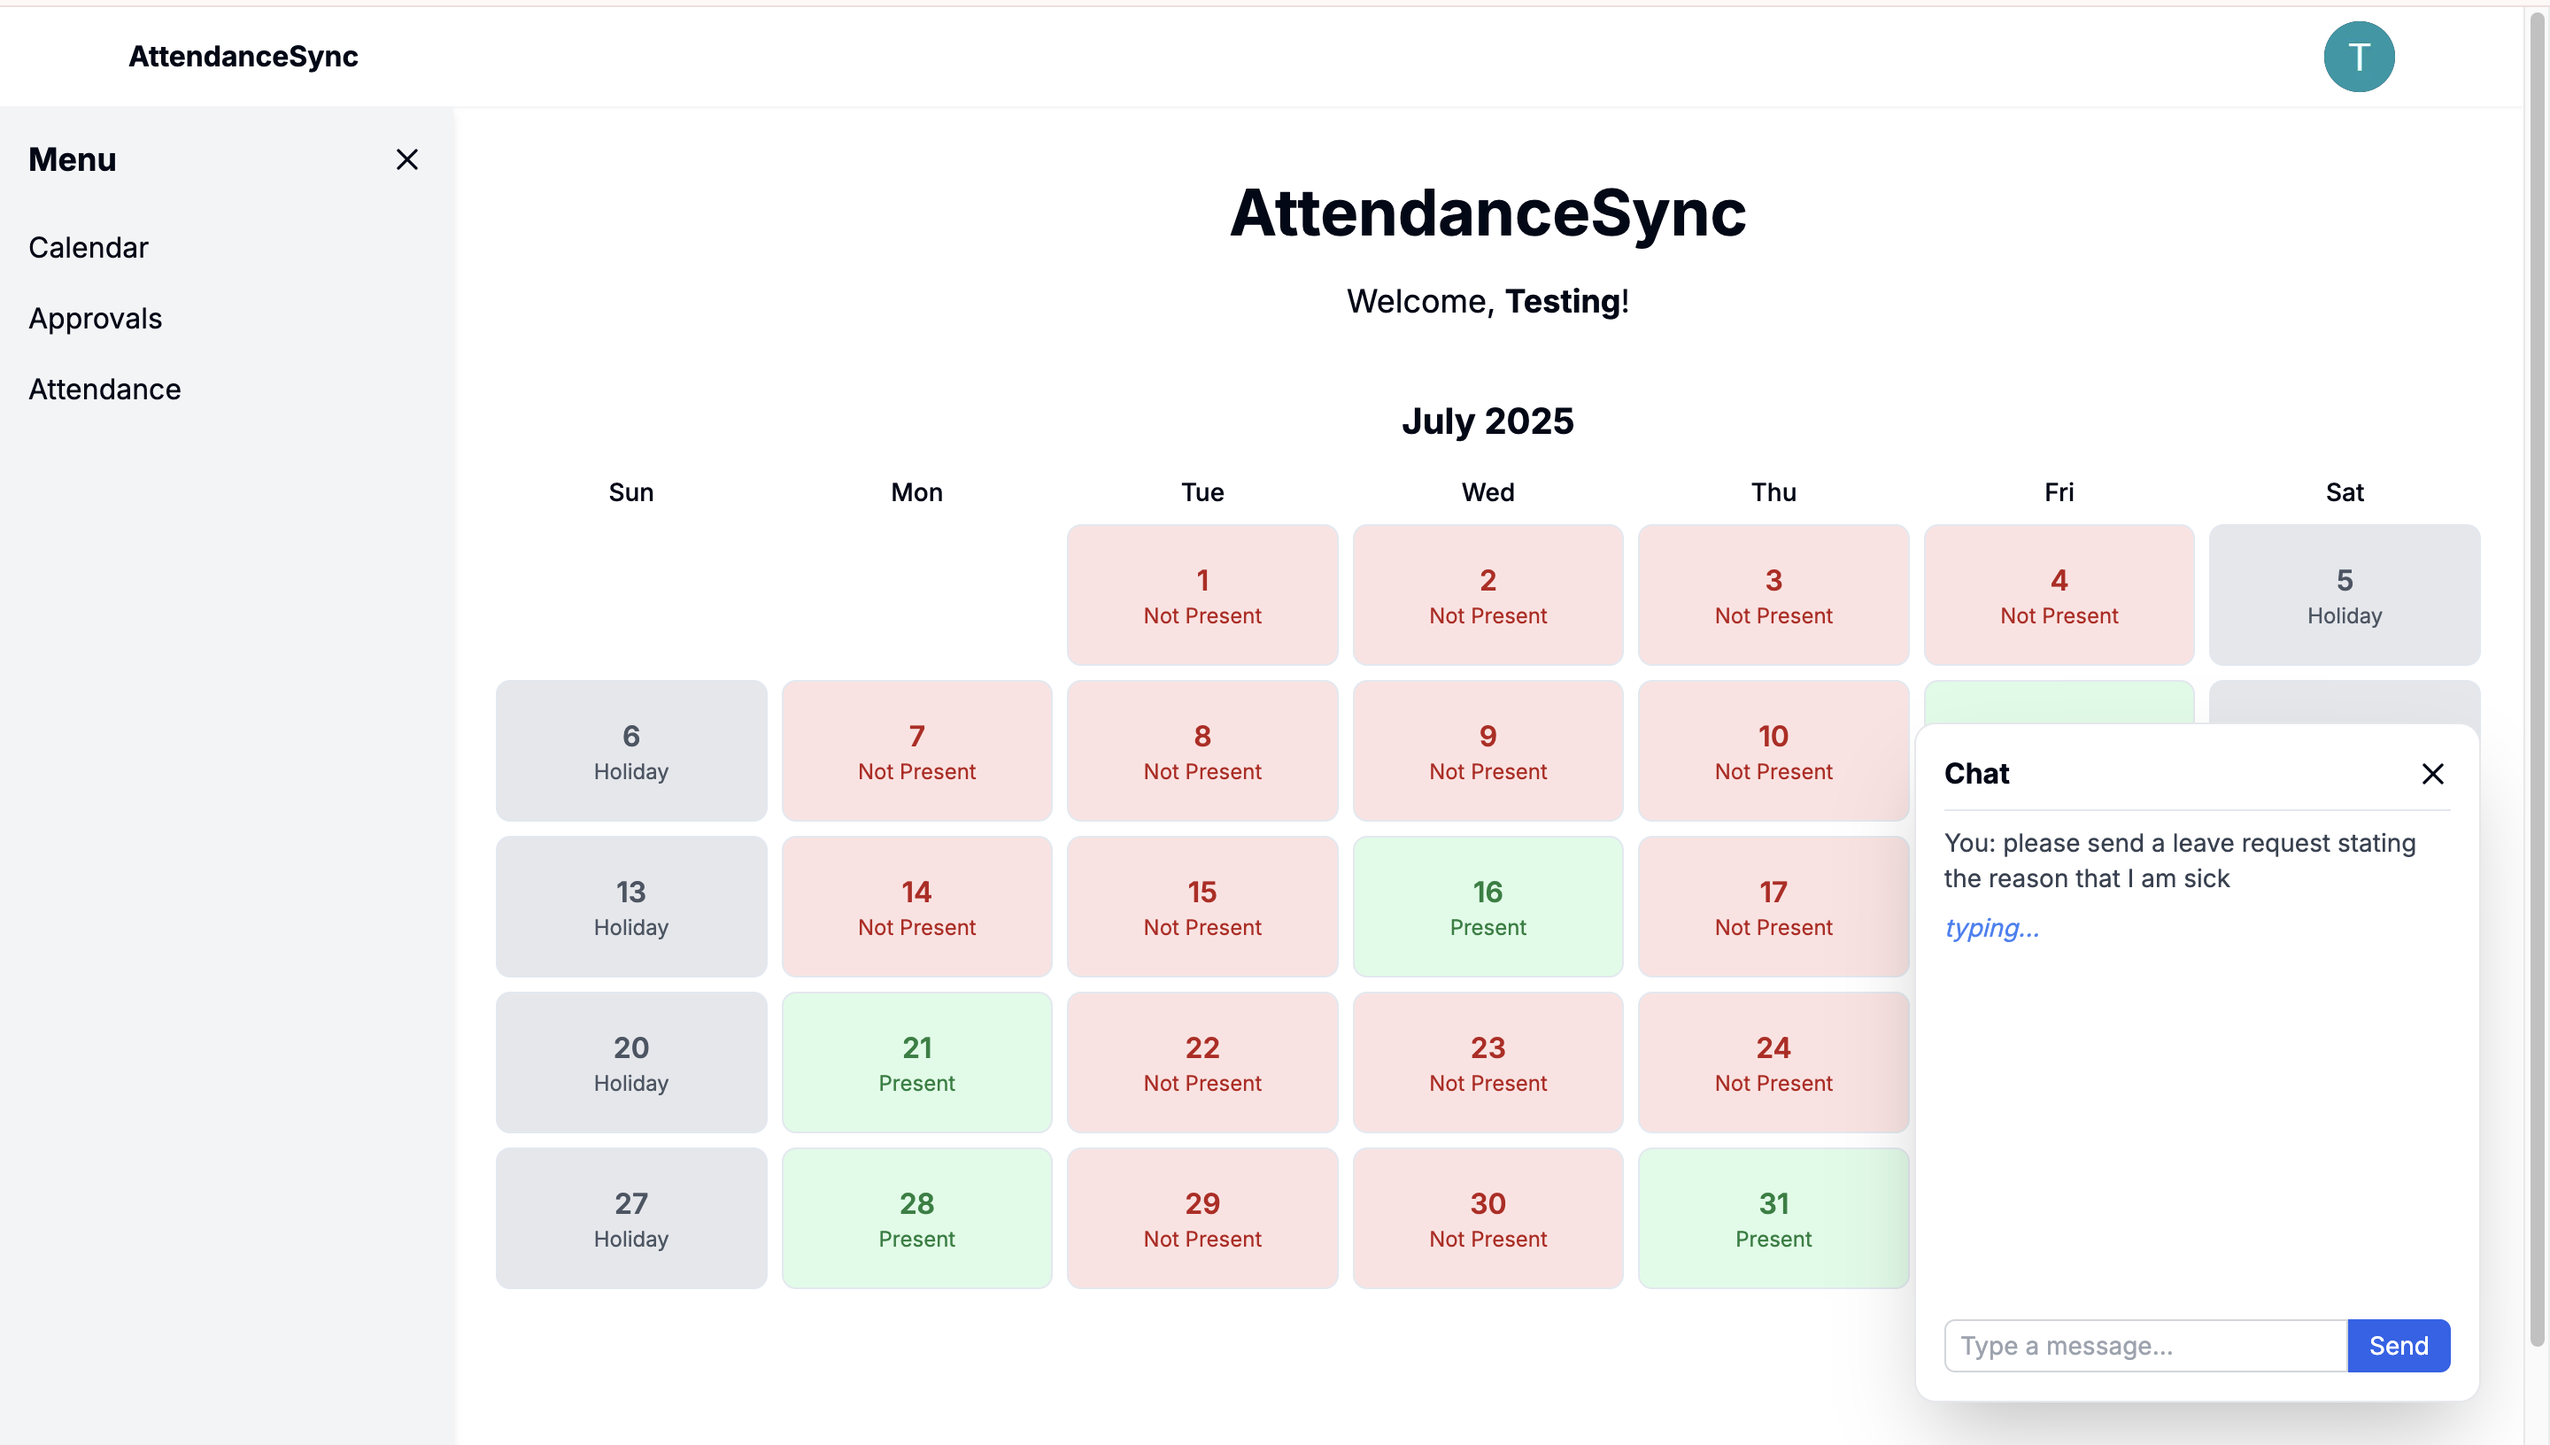
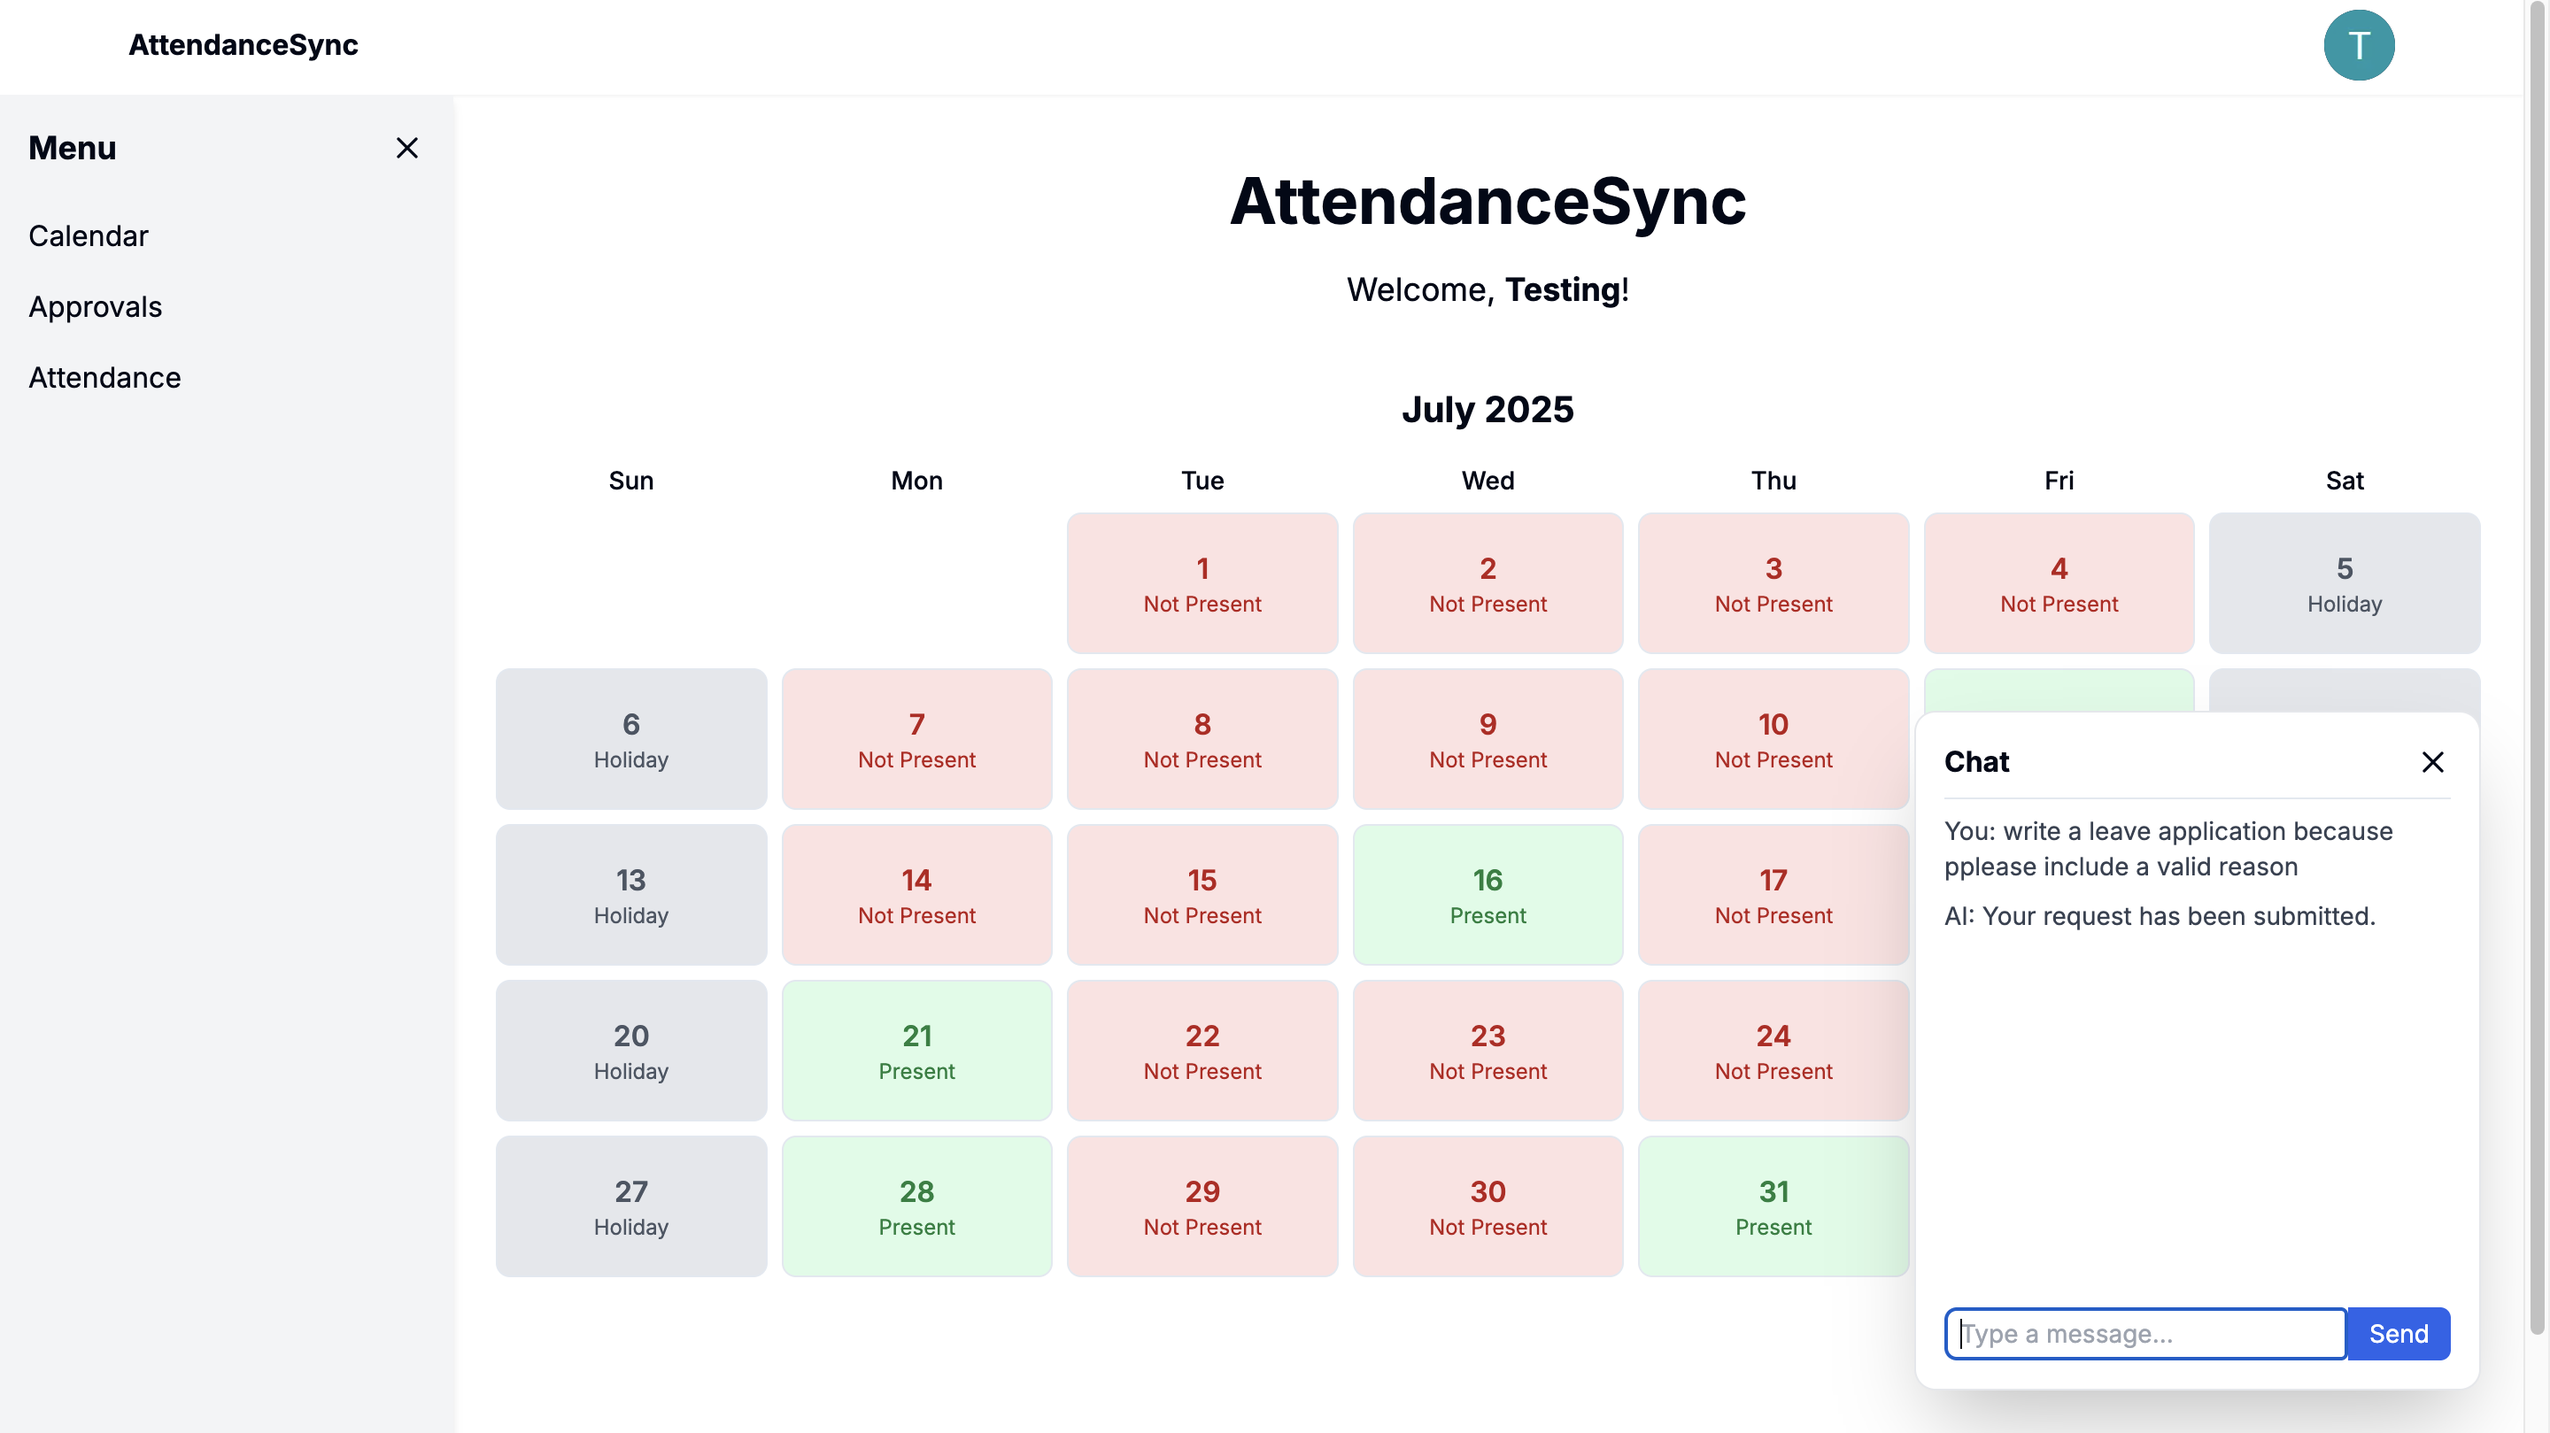
improved prompt

diff --git a/src/app/api/chatbot/route.ts b/src/app/api/chatbot/route.ts
@@ -24,7 +24,7 @@ If the user's message is a request for leave or work-from-home, respond with:
   "intent": "createApproval",
   "payload": {
     "type": "Leave" or "Work From Home",
-    "reason": "short summary"
+    "reason": "create a personalized response for the user like a realistic leave short application"
   },
   "reply": " Your request has been submitted."
 }
